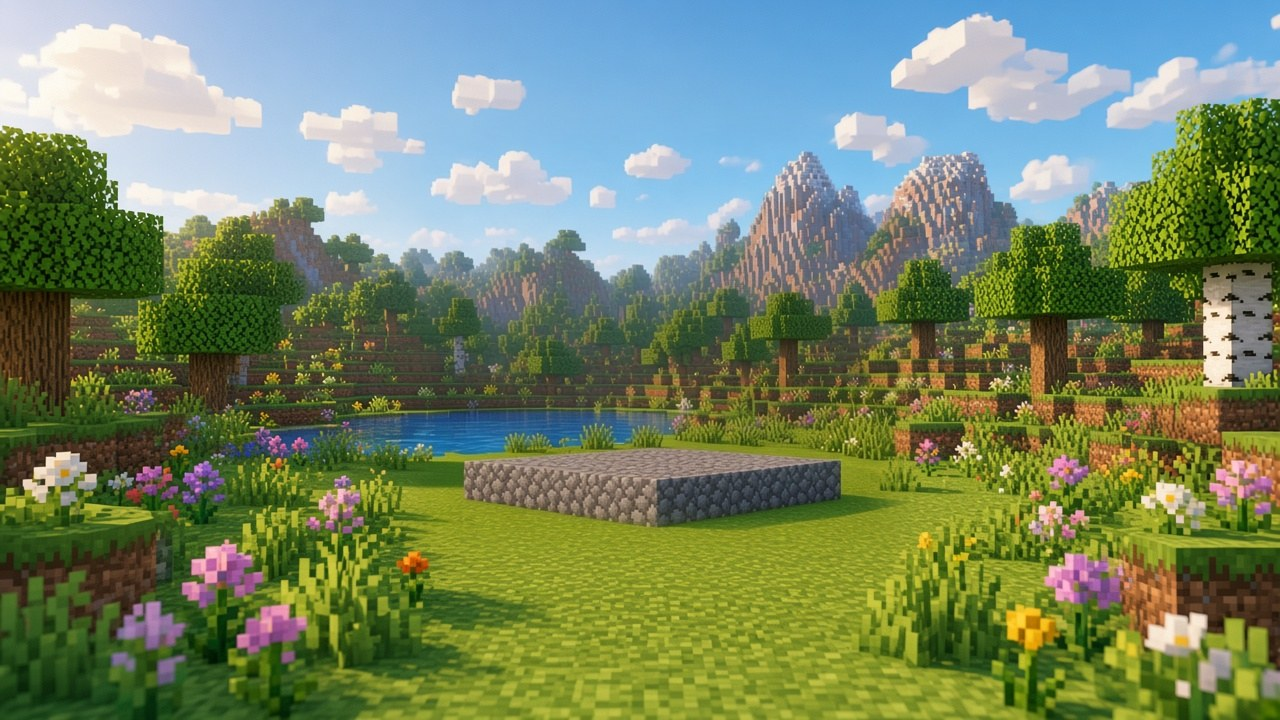
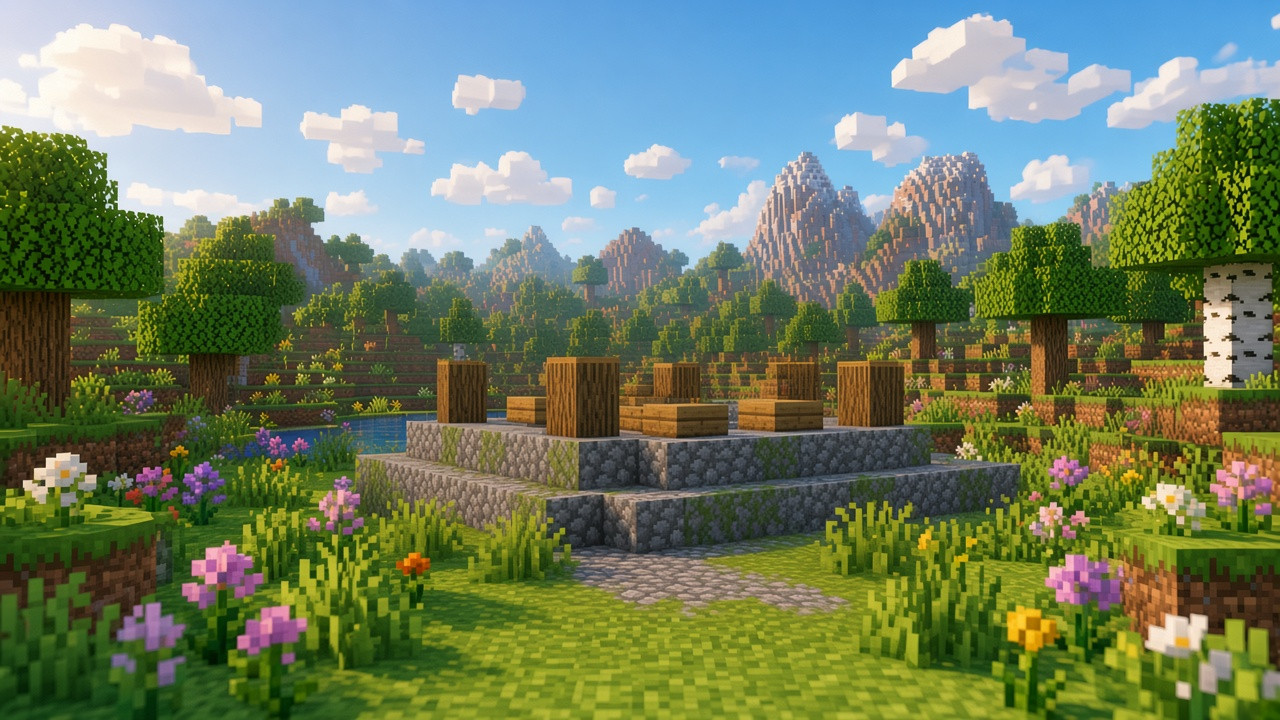
update 2026-11-15 03:37:38

diff --git a/minecraft/house.html b/minecraft/house.html
@@ -65,15 +65,53 @@
   }
   .btn:hover:not(:disabled) { background: #7c8fd4; box-shadow: inset 3px 3px 0 #a9b9f0, inset -3px -3px 0 #4a5a99; }
   .btn:disabled { opacity: .55; cursor: default; }
+
+  /* закат, кошка, светлячки, достижение */
+  #mcSky {
+    position: absolute; inset: 0; pointer-events: none; z-index: 2;
+    background: linear-gradient(to top, rgba(255, 140, 60, .0), rgba(255, 160, 80, .0) 40%, rgba(80, 70, 140, .0));
+    opacity: 0; transition: opacity 1.6s ease, background 1.6s ease; mix-blend-mode: soft-light;
+  }
+  #mcSky.lv1 { opacity: .18; background: linear-gradient(to top, rgba(255, 200, 120, .18), transparent 55%); }
+  #mcSky.lv2 { opacity: .28; background: linear-gradient(to top, rgba(255, 170, 90, .22), rgba(255, 200, 140, .08) 50%, transparent 80%); }
+  #mcSky.lv3 { opacity: .4; background: linear-gradient(to top, rgba(255, 140, 70, .28), rgba(255, 180, 110, .12) 55%, transparent 85%); }
+  #mcSky.lv4 { opacity: .2; background: linear-gradient(to top, rgba(255, 120, 50, .12), transparent 60%); } /* закат уже на картинке */
+  #mcFireflies { position: absolute; inset: 0; z-index: 7; pointer-events: none; }
+  #mcCat {
+    position: absolute; z-index: 4; width: 42px; height: 28px; pointer-events: none;
+    opacity: 0; transition: opacity 1s ease; image-rendering: pixelated;
+    filter: drop-shadow(0 3px 2px rgba(0,0,0,.35));
+  }
+  #mcCat.on { opacity: 1; animation: catBob 2.8s ease-in-out infinite; }
+  @keyframes catBob { 0%, 100% { transform: translateY(0); } 40% { transform: translateY(-2px); } }
+  .mc-ach {
+    position: fixed; left: 16px; top: 16px; z-index: 40;
+    display: flex; align-items: center; gap: 10px;
+    min-width: 240px; max-width: min(360px, calc(100vw - 32px));
+    padding: 8px 12px 8px 8px;
+    background: #212121; border: 3px solid #000;
+    box-shadow: inset 0 0 0 2px #555, 4px 4px 0 rgba(0,0,0,.35);
+    color: #fff; font: 700 13px/1.25 "Courier New", "DejaVu Sans Mono", monospace;
+    text-shadow: 2px 2px 0 #000; pointer-events: none;
+    animation: achIn .35s ease both;
+  }
+  .mc-ach.off { animation: achOut .4s ease forwards; }
+  .mc-ach .ico { width: 32px; height: 32px; image-rendering: pixelated; flex: 0 0 32px; background: #111; border: 2px solid #000; }
+  .mc-ach .kicker { color: #fcfc54; font-size: 11px; letter-spacing: .04em; }
+  @keyframes achIn { from { transform: translateY(-16px); opacity: 0; } to { transform: none; opacity: 1; } }
+  @keyframes achOut { to { transform: translateY(-16px); opacity: 0; } }
+  @media (max-width: 600px) {
+    .mc-ach { left: 8px; top: auto; bottom: calc(70px + env(safe-area-inset-bottom, 0px)); }
+  }
   @media (max-width: 700px) {
     .panel { padding: 12px 12px 12px; }
     .q-text { font-size: 15px; line-height: 1.4; margin: 8px 0 10px; max-height: 32vh; }
   }
 </style>
-<link rel="stylesheet" href="../common/hud.css?v=20261115d">
-<script src="../common/quest_config.js?v=20261115d"></script>
-<script src="../common/hud.js?v=20261115d" data-screen="minecraft"></script>
-<script src="craft.js?v=20261115d"></script>
+<link rel="stylesheet" href="../common/hud.css?v=20261115i">
+<script src="../common/quest_config.js?v=20261115i"></script>
+<script src="../common/hud.js?v=20261115i" data-screen="minecraft"></script>
+<script src="craft.js?v=20261115i"></script>
 </head>
 <body>
 <div class="scene" id="scene">
@@ -81,6 +119,9 @@
   <div id="bgWrap">
     <img class="layer" id="bg" src="bg_stage0.jpg" alt="">
     <div id="houseStages"></div><!-- этапы дома: MINECRAFT.HOUSE_STAGES в quest_config.js (bg_stage1…4.jpg) -->
+    <div id="mcSky" aria-hidden="true"></div>
+    <div id="mcCat" aria-hidden="true"></div>
+    <canvas id="mcFireflies" aria-hidden="true"></canvas>
   </div>
   <div class="char" id="vika"><div class="shadow"></div><img id="vikaImg" src="chars/vika_noflowers.png" alt="Вика"></div>
   <div class="char" id="zhenya"><div class="shadow"></div><img src="chars/zhenya.png" alt="Женя"></div>
@@ -160,10 +201,11 @@
       window.__mcHouse = { x: W / 2 - hw / 2, w: hw, h: hw * R, bottom: hb };
     }
     place(shown, 0);
+    placeCat();
   }
 
   /* Кадр фона 1280×720; дом на картинках этапов занимает примерно x 437…875, y 150…525. */
-  const IMG = { w: 1280, h: 720 }, HOUSE_BOX = { x0: 437, x1: 875, y0: 150, y1: 525 };
+  const IMG = { w: 1280, h: 720 }, HOUSE_BOX = { x0: 440, x1: 890, y0: 78, y1: 528 };
   const bgWrap = document.getElementById("bgWrap");
   let panelBottom = 0;      /* низ панели вопроса (меряется в render) */
   function placeBg(W, H, h, bottom) {
@@ -259,6 +301,7 @@
     });
     await new Promise((r) => setTimeout(r, 300));
     heartEl.classList.add("on"); window.__mcHeartOn = true;
+    startFireflies();
     setTimeout(() => sparkle(heartEl, 16), 250);
     setTimeout(() => sparkle(heartEl, 10), 900);
     await new Promise((r) => setTimeout(r, 1500));
@@ -278,6 +321,7 @@
     panel.classList.add("hidden");
     if (window.QuestHUD) QuestHUD.setStep("craft" + EXIT.craft);
     if (window.MCCraft) await MCCraft.open({ craft: EXIT.craft, hint: EXIT.hint });
+    if (EXIT.craft) achievement(EXIT.craft);
     sparkle(vika, 12); sparkle(zhenya, 12);
     window.__mcBoat = true;
     await new Promise((r) => setTimeout(r, 1100));
@@ -338,26 +382,94 @@
   let houseLevel = 0;
   const CODE_HOUSE = STAGES.some((st) => !st.img);           /* рисованный кодом домик — только если нет картинок */
   if (window.MCCraft && CODE_HOUSE) MCCraft.House.mount(houseStages);
-  STAGES.forEach((st) => { if (st.img) { const im = new Image(); im.src = st.img; } }); /* предзагрузка */
+  function stageSrc(img) { if (!img) return img; return img + (img.indexOf('?') >= 0 ? '&' : '?') + 'v=20261115i'; }
+  STAGES.forEach((st) => { if (st.img) { const im = new Image(); im.src = stageSrc(st.img); } }); /* предзагрузка */
   function stageAfter(qNum) { return STAGES.find((st) => st.after === qNum) || null; }
   function applyStage(st, instant) {
     const idx = STAGES.indexOf(st);
     houseLevel = Math.max(houseLevel, idx + 1);
     if (st.img) {
       const im = document.createElement("img");
-      im.className = "layer"; im.src = st.img; im.alt = "";
+      im.className = "layer"; im.src = stageSrc(st.img); im.alt = "";
       houseStages.appendChild(im);
       if (instant) im.classList.add("on"); else requestAnimationFrame(() => requestAnimationFrame(() => im.classList.add("on")));
     } else if (window.MCCraft) {
       MCCraft.House.set(houseLevel, st.wallColor, instant);
     }
     window.__mcLevel = houseLevel;
+    tintSky(houseLevel);
+    if (houseLevel >= 2) showCat();
+  }
+  function tintSky(lv) {
+    const el = document.getElementById("mcSky");
+    if (!el) return;
+    el.className = lv ? ("lv" + Math.min(4, lv)) : "";
+  }
+  function showCat() {
+    const el = document.getElementById("mcCat");
+    if (!el || el.dataset.on) return;
+    el.dataset.on = "1";
+    el.innerHTML = '<svg viewBox="0 0 21 14" xmlns="http://www.w3.org/2000/svg" shape-rendering="crispEdges"><rect x="3" y="4" width="12" height="6" fill="#e8b84a"/><rect x="2" y="5" width="2" height="4" fill="#d4a43c"/><rect x="14" y="6" width="5" height="3" fill="#e8b84a"/><rect x="18" y="7" width="3" height="1" fill="#f0d080"/><rect x="3" y="3" width="3" height="2" fill="#e8b84a"/><rect x="8" y="3" width="3" height="2" fill="#e8b84a"/><rect x="4" y="3" width="1" height="1" fill="#3a2a10"/><rect x="9" y="3" width="1" height="1" fill="#3a2a10"/><rect x="13" y="6" width="1" height="1" fill="#3a2a10"/><rect x="5" y="10" width="2" height="3" fill="#d4a43c"/><rect x="11" y="10" width="2" height="3" fill="#d4a43c"/><rect x="15" y="5" width="2" height="1" fill="#f4c85a"/></svg>';
+    el.classList.add("on");
+    placeCat();
+  }
+  function placeCat() {
+    const el = document.getElementById("mcCat");
+    const b = window.__mcBg && window.__mcBg.house;
+    if (!el || !b) return;
+    const w = Math.max(36, Math.min(56, b.w * 0.1));
+    el.style.width = w + "px";
+    el.style.height = (w * 14 / 21) + "px";
+    el.style.left = (b.x + b.w * 0.78) + "px";
+    el.style.top = (b.y + b.h * 0.86) + "px";
+  }
+  function achievement(craft) {
+    const titles = (MC.ACHIEVEMENTS || {});
+    const title = titles[craft] || craft;
+    const t = document.createElement("div");
+    t.className = "mc-ach";
+    const ico = document.createElement("div"); ico.className = "ico";
+    if (window.MCCraft && MCCraft.icon) {
+      const img = document.createElement("img"); img.src = MCCraft.icon(craft); img.alt = ""; img.style.width = "100%"; img.style.height = "100%"; img.style.imageRendering = "pixelated";
+      ico.appendChild(img);
+    }
+    const tx = document.createElement("div");
+    tx.innerHTML = '<div class="kicker">Новое достижение!</div><div></div>';
+    tx.lastChild.textContent = title;
+    t.appendChild(ico); t.appendChild(tx);
+    document.body.appendChild(t);
+    setTimeout(() => t.classList.add("off"), 2800);
+    setTimeout(() => t.remove(), 3300);
+  }
+  function startFireflies() {
+    const c = document.getElementById("mcFireflies");
+    if (!c || c.dataset.on) return;
+    c.dataset.on = "1";
+    const ctx = c.getContext("2d");
+    const bugs = [];
+    function resize() { c.width = innerWidth; c.height = innerHeight; }
+    resize(); window.addEventListener("resize", resize);
+    for (let i = 0; i < 22; i++) bugs.push({ x: Math.random()*innerWidth, y: Math.random()*innerHeight*0.7+innerHeight*0.15, r: 2.2+Math.random()*2.4, vx: (Math.random()-.5)*.25, vy: (Math.random()-.5)*.2, p: Math.random()*Math.PI*2, s: .6+Math.random()*1.4 });
+    function tick(now) {
+      ctx.clearRect(0,0,c.width,c.height);
+      bugs.forEach((b) => {
+        b.x += b.vx; b.y += b.vy;
+        if (b.x < 0) b.x = c.width; if (b.x > c.width) b.x = 0;
+        if (b.y < 0) b.y = c.height; if (b.y > c.height) b.y = 0;
+        const a = 0.35 + 0.65 * (0.5 + 0.5 * Math.sin(now/400 * b.s + b.p));
+        ctx.fillStyle = "rgba(255, 230, 120," + a + ")";
+        ctx.fillRect(Math.round(b.x), Math.round(b.y), Math.ceil(b.r), Math.ceil(b.r));
+      });
+      requestAnimationFrame(tick);
+    }
+    requestAnimationFrame(tick);
   }
   async function craftEvent(qNum) {
     const st = stageAfter(qNum);
     if (!st) return;
     if (window.QuestHUD) QuestHUD.setStep("craft" + qNum);
     if (st.craft && window.MCCraft) await MCCraft.open(st);
+    if (st.craft) achievement(st.craft);
     applyStage(st, false);
     const hb = (window.MCCraft && MCCraft.House.el) || houseSpot();
     sparkle(hb, 22);
@@ -447,16 +559,25 @@
   window.__mc = { get state() { return { question, step, shown, busy, done, n: QUESTIONS.length, houseLevel }; }, layout };
 
   /* Отладка: house.html?craft=N (N = 2…5) — сразу крафт после вопроса N (предыдущие этапы дома уже стоят).
-     house.html?exit=1 — сразу вопрос «Двигаемся дальше?»; house.html?craft=boat — сразу крафт лодки. */
+     house.html?exit=1 — сразу вопрос «Двигаемся дальше?»; house.html?craft=boat — сразу крафт лодки.
+     house.html?stage=0…5 — сразу показать этапы дома без крафта. */
+  const STAGE_DEBUG = +((location.search.match(/[?&]stage=(\d)/) || [])[1] || -1);
   const CRAFT_DEBUG = +((location.search.match(/[?&]craft=(\d)/) || [])[1] || 0);
   const EXIT_DEBUG = EXIT && (/[?&]exit=1/.test(location.search) ? "q" : /[?&]craft=boat/.test(location.search) ? "craft" : "");
   if (EXIT_DEBUG) {
     question = QUESTIONS.length; step = shown = N; done = true;
     vikaImg.src = "chars/vika_flowers.png"; window.__mcFlowers = true;
     STAGES.forEach((st) => applyStage(st, true));
-    together = 1; layout(); heartEl.classList.add("on");
+    together = 1; layout(); heartEl.classList.add("on"); startFireflies();
     if (EXIT_DEBUG === "q") setTimeout(startExit, 500);
     else { exitMode = true; busy = true; setTimeout(exitCorrect, 500); }
+  } else if (STAGE_DEBUG >= 0) {
+    vikaImg.src = "chars/vika_flowers.png"; window.__mcFlowers = true;
+    const n = STAGE_DEBUG;
+    question = Math.min(n, QUESTIONS.length); step = shown = Math.min(n, N);
+    STAGES.filter((st) => st.after <= n).forEach((st) => applyStage(st, true));
+    if (n >= QUESTIONS.length) { together = 1; done = true; heartEl.classList.add("on"); startFireflies(); }
+    layout();
   } else if (CRAFT_DEBUG >= 2 && stageAfter(CRAFT_DEBUG)) {
     question = CRAFT_DEBUG - 1; step = shown = CRAFT_DEBUG;
     vikaImg.src = "chars/vika_flowers.png"; window.__mcFlowers = true;

diff --git a/common/quest_config.js b/common/quest_config.js
@@ -115,6 +115,14 @@ window.QUEST_CONFIG = {
     EXIT: {
       question: { id: "mc-exit", text: "Двигаемся дальше?", parts: [{ accept: ["да"] }] },
       craft: "boat", hint: "Скрафти лодку"
+    },
+    /* Тосты «Новое достижение!» после крафта (0 примогемов). */
+    ACHIEVEMENTS: {
+      planks: "Первые доски",
+      crafting_table: "Свой верстак",
+      bed: "Сладкие сны",
+      blue_dye: "Голубые стены",
+      boat: "Мы плывём"
     }
   },
 
